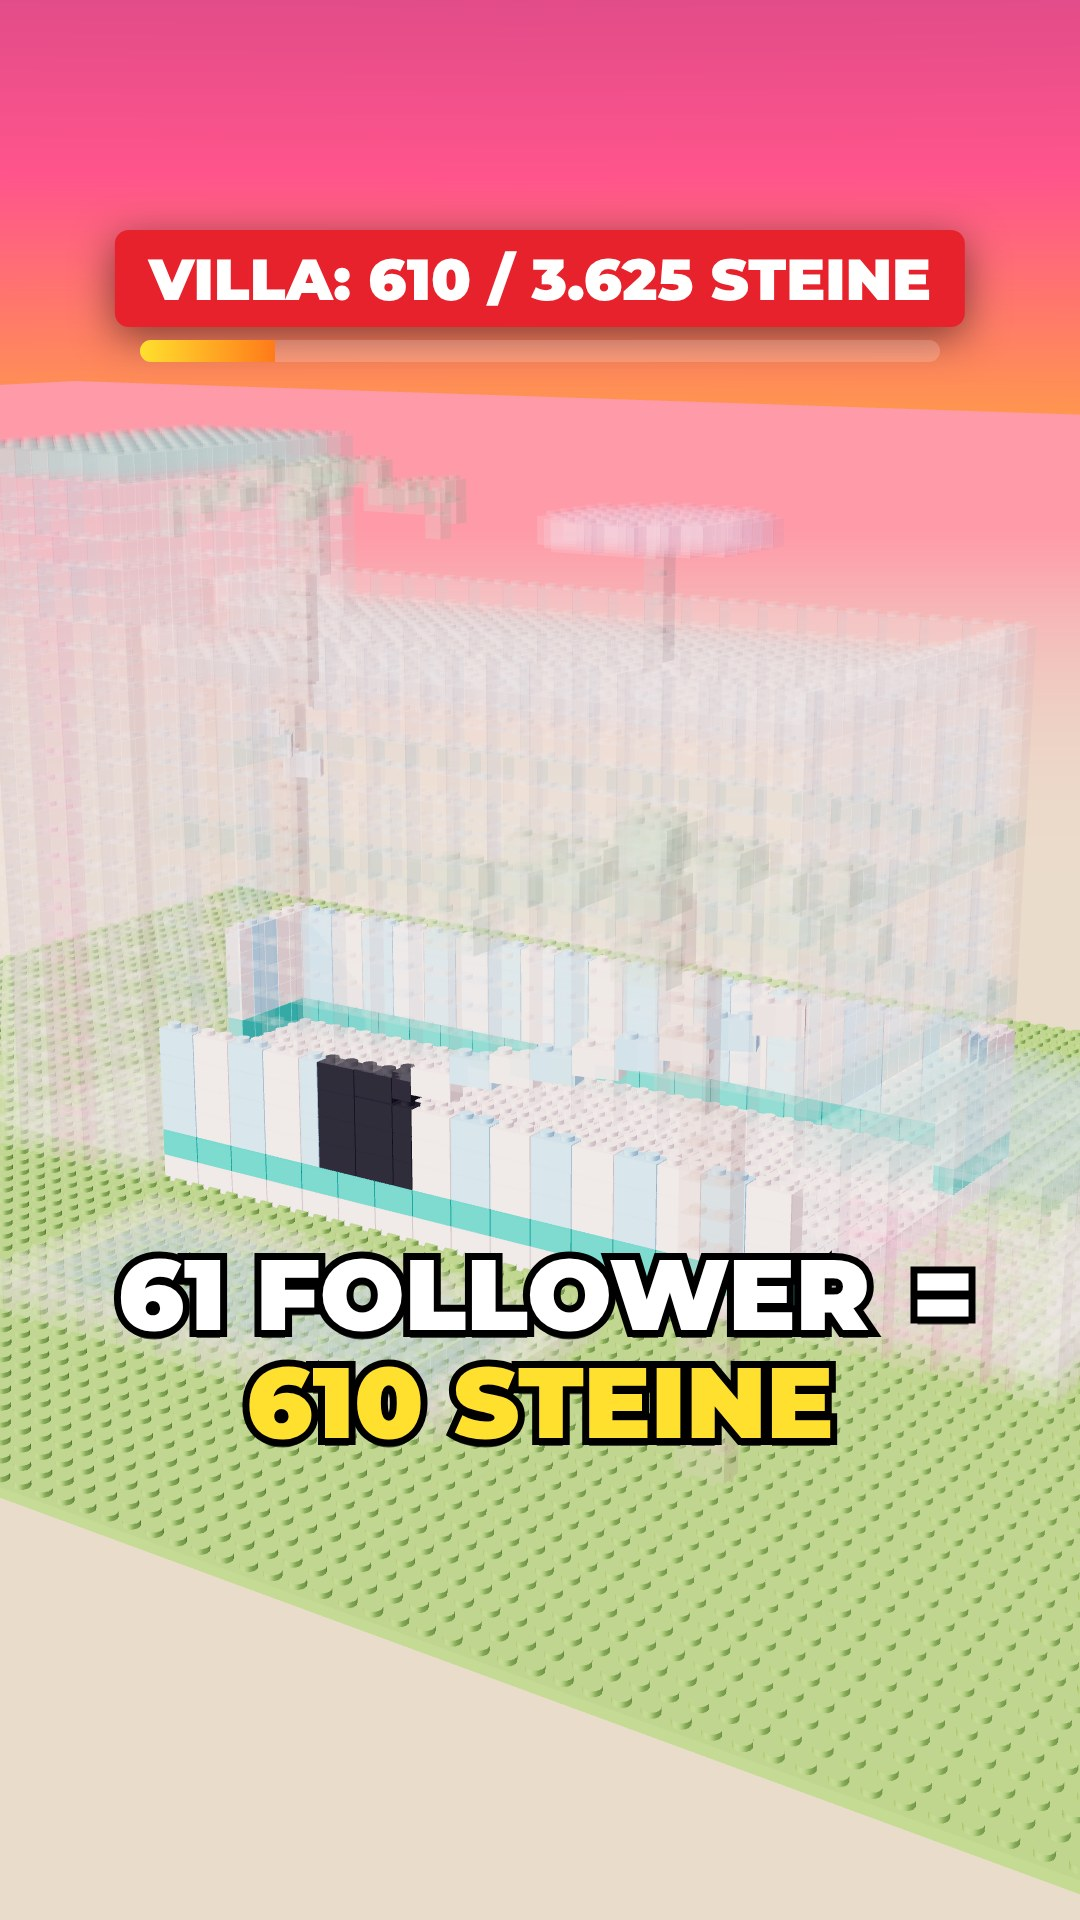
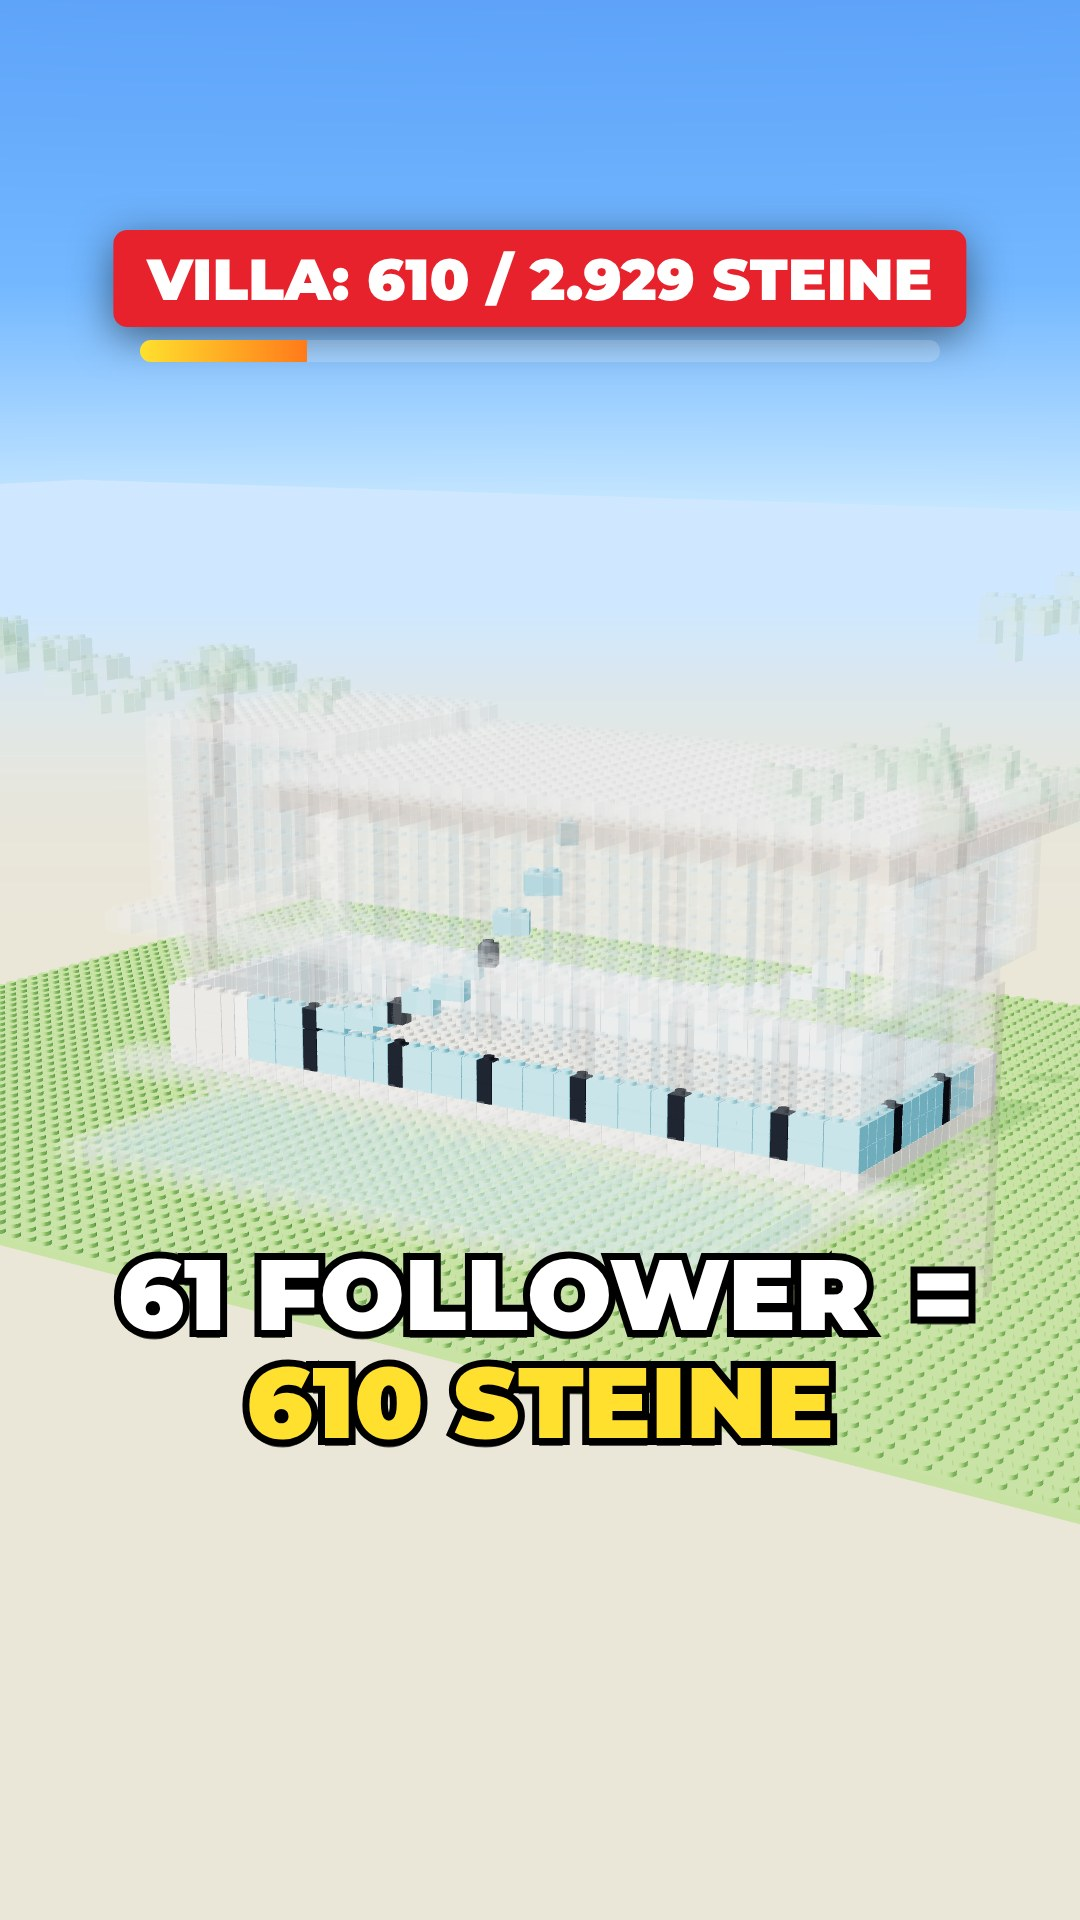
Villa neu: moderner Stil (weiße Kuben, Glasfronten, Holzunterseite, Pool), Tageshimmel
Claude-Session: https://claude.ai/code/session_016TX7ZaKJKxmG6THC5sY4HK

diff --git a/src/brick/villa.js b/src/brick/villa.js
@@ -7,66 +7,60 @@ const W = 1080, H = 1920, BH = 1.2;
 const clamp = (x, a = 0, b = 1) => Math.min(b, Math.max(a, x));
 const easeOut = x => 1 - Math.pow(1 - clamp(x), 3);
 
-const C = { white: 0xf4f1ea, cream: 0xf3e3c3, teal: 0x00bfae, pink: 0xff6fb5, glass: 0x9fe3ff, dark: 0x2b2f3a,
-  water: 0x1fb7d6, rim: 0xe8e4da, trunk: 0x8d5a2b, leaf: 0x2e9d3a, leaf2: 0x56c271, gdoor: 0xff3c9e, roof: 0xd9d4c7 };
+const C = { white: 0xf5f5f2, stone: 0xe4ddd0, glass: 0x7fc8dc, frame: 0x22262e, wood: 0x8a5a33, water: 0x5fdde6,
+  deck: 0xf0ede6, trunk: 0x8d5a2b, leaf: 0x2e9d3a, leaf2: 0x56c271, rail: 0xbfeaf5, dark: 0x3a3f4b };
 
-// ---------- Form ----------
+// ---------- Form: moderne Villa (eigenes Design) ----------
 let PART = null;
 const P = (part, c) => { PART = part; return c; };
 const segDist = (p, a, b) => { const ab = b.map((v, k) => v - a[k]), ap = p.map((v, k) => v - a[k]);
   const t = clamp((ap[0] * ab[0] + ap[1] * ab[1] + ap[2] * ab[2]) / (ab[0] ** 2 + ab[1] ** 2 + ab[2] ** 2));
   return Math.hypot(...p.map((v, k) => v - (a[k] + ab[k] * t))); };
-const PALMS = [[-30, 14, 26, 1], [24, 18, 22, -1], [-26, -20, 30, 1]];
-const FL = [1.2, 8.4, 15.6, 22.8]; // Geschossgrenzen
+const PALMS = [[-32, 12, 26, 1], [33, 14, 24, -1], [34, -8, 30, -1], [-33, -10, 22, 1]];
+const glassFace = (u, y, y0, y1) => (Math.round(u) % 6 === 0 || y < y0 + BH * .5 || y > y1 - BH * .5) ? C.frame : C.glass;
 function shape(x, y, z) {
   const p = [x, y, z];
-  // Palmen
   for (const [px, pz, h, lean] of PALMS) {
     const top = [px + lean * 3, h, pz];
     if (y < h && Math.hypot(x - (px + lean * 3 * (y / h) ** 2), z - pz) < 1) return P('palms', C.trunk);
     for (let f = 0; f < 6; f++) { const a = f / 6 * Math.PI * 2;
       if (segDist(p, top, [top[0] + Math.cos(a) * 8, h - 2.5, top[2] + Math.sin(a) * 8]) < .75) return P('palms', f % 2 ? C.leaf : C.leaf2); }
   }
-  // Pool vorne
-  if (x >= -8 && x <= 14 && z >= 11 && z <= 21 && y < 1.2) return P('pool', (x > -7 && x < 13 && z > 12 && z < 20) ? C.water : C.rim);
-  // Fundament
-  // Garage rechts
-  if (x > 20 && x <= 31 && z >= -8 && z <= 6 && y < 8.4) {
-    if (z > 5 && x > 22 && x < 30 && y < 6.6) return P('garage', C.gdoor);
-    if (y > 7.2) return P('garage', C.teal);
-    return P('garage', C.white);
+  // Pool + Terrasse
+  if (y < 1.2 && x >= -24 && x <= 26 && z >= 5 && z <= 24) {
+    if (z >= 9 && z <= 22 && x >= -14 && x <= 24) return P('pool', (z > 9.5 && z < 21.5 && x > -13.5 && x < 23.5) ? C.water : C.deck);
+    if (z < 9) return P('pool', C.deck);
   }
-  // Turm links
-  if (x >= -21 && x <= -12 && z >= -8 && z <= 7 && y < 32) {
-    if (y >= 30.8) return P('tower', C.teal);
-    const face = z > 6 || x < -20;
-    if (face && y > 23.4 && (Math.round(y / BH) % 3 !== 0) && (z > 6 ? Math.abs(x + 16.5) < 2 : Math.abs(z) < 2)) return P('tower', C.glass);
-    if (z > 6 && x > -17.5 && x < -15.5) return P('tower', C.pink); // Art-déco-Finne
+  // Erdgeschoss
+  if (x >= -22 && x <= 22 && z >= -12 && z <= 4 && y < 8.4) {
+    if (y < 1.2) return P('ground', C.stone);
+    if (z > 3 && x > -17) return P('ground', glassFace(x, y, 1.2, 8.4));
+    if (x > 21 && z > -10) return P('ground', glassFace(z, y, 1.2, 8.4));
+    return P('ground', x < -17 && z > 3 ? C.stone : C.white);
+  }
+  // Decke EG mit Überstand
+  if (x >= -24 && x <= 22 && z >= -12 && z <= 7 && y >= 8.4 && y < 9.6) return P('slab', z > 4 ? C.white : C.white);
+  // Glasgeländer Balkon
+  if (x >= -10 && x <= 22 && z > 6 && z <= 7 && y >= 9.6 && y < 10.8) return P('upper', C.rail);
+  // Linker Turm (weißer Rahmen mit Glas)
+  if (x >= -24 && x <= -11 && z >= -12 && z <= 3 && y >= 9.6 && y < 20.4) {
+    if (z > 2 && x > -22.5 && x < -12.5 && y > 10.4 && y < 19.4) return P('tower', glassFace(x + 1, y, 10.4, 19.4));
     return P('tower', C.white);
   }
-  // Haupthaus 3 Geschosse
-  if (x >= -20 && x <= 20 && z >= -14 && z <= 6 && y < 24) {
-    if (y >= 22.8) return P('roof', (x + z) % 2 ? C.roof : C.white);
-    const fl = Math.max(0, FL.findIndex((v, k) => y >= v && y < (FL[k + 1] ?? 99)));
-    const ly = y < FL[0] ? -1 : y - FL[fl];
-    if (ly < 0) return P('floor0', C.white); // Sockel
-    if (ly < BH) return P('floor' + fl, C.teal); // Gesims-Band
-    const front = z > 5, back = z < -13, side = x > 19 || x < -19;
-    if (fl === 0 && front && Math.abs(x) < 2.5 && ly < 6) return P('floor0', C.dark); // Tür
-    const wx = front || back ? x : z;
-    if ((front || back || side) && ly > 1.6 && ly < 5.8 && ((wx + 40) % 4) >= 1 && ((wx + 40) % 4) < 3) return P('floor' + fl, C.glass);
-    return P('floor' + fl, fl === 1 ? C.cream : C.white);
+  // Obergeschoss
+  if (x >= -10 && x <= 24 && z >= -12 && z <= 5 && y >= 9.6 && y < 16.8) {
+    if (z > 4 && x > -9 && x < 23) return P('upper', glassFace(x, y, 9.6, 16.8));
+    if (x > 23 && z > -10 && z < 4) return P('upper', glassFace(z, y, 9.6, 16.8));
+    return P('upper', x > 9 && x < 13 ? C.stone : C.white);
   }
-  // Dachterrassen-Brüstung + Schirm
-  if (x >= -20 && x <= 20 && z >= -14 && z <= 6 && y >= 24 && y < 25.2 && (x === -20 || x === 20 || z === -14 || z === 6)) return P('roof', C.white);
-  if (y >= 24 && y < 29 && Math.hypot(x - 8, z + 4) < .8) return P('roof', C.dark);
-  if (y >= 28.6 && y < 30 && Math.hypot(x - 8, z + 4) < 4.5) return P('roof', C.pink);
+  // Dach mit Holz-Unterseite
+  if (x >= -12 && x <= 26 && z >= -13 && z <= 8 && y >= 16.8 && y < 19.2) return P('roof', y < 18 && (z > 5 || x > 24) ? C.wood : C.white);
   return null;
 }
 
 // ---------- Voxelisieren + Steine ----------
 const vox = new Map(), key = (i, j, k) => `${i},${j},${k}`;
-for (let j = 0; j < 30; j++) for (let i = -40; i <= 36; i++) for (let k = -30; k <= 24; k++) {
+for (let j = 0; j < 30; j++) for (let i = -42; i <= 42; i++) for (let k = -22; k <= 26; k++) {
   PART = null; const c = shape(i, (j + .5) * BH, k); if (c !== null) vox.set(key(i, j, k), c + '|' + PART);
 }
 const surf = new Map();
@@ -81,7 +75,7 @@ for (const [i, j, k] of sorted) {
   for (let a = 0; a < L; a++) used.add(key(i + a, j, k));
   const [cc, part] = c.split('|'); bricks.push({ x: i + (L - 1) / 2, y: j * BH, z: k, L, c: +cc, part });
 }
-const ORDER = ['floor0', 'garage', 'floor1', 'floor2', 'tower', 'roof', 'pool', 'palms'];
+const ORDER = ['ground', 'slab', 'tower', 'upper', 'roof', 'pool', 'palms'];
 bricks.sort((a, b) => ORDER.indexOf(a.part) - ORDER.indexOf(b.part) || a.y - b.y || (a.x + a.z) - (b.x + b.z));
 window.PARTS = { N: bricks.length, order: ORDER, counts: Object.fromEntries(ORDER.map(p => [p, bricks.filter(b => b.part === p).length])) };
 
@@ -103,12 +97,12 @@ scene.environmentIntensity = .6;
 scene.add(new THREE.Mesh(new THREE.SphereGeometry(500, 32, 16), new THREE.ShaderMaterial({ side: THREE.BackSide, depthWrite: false, fog: false,
   vertexShader: `varying vec3 vp; void main(){ vp = normalize(position); gl_Position = projectionMatrix*modelViewMatrix*vec4(position,1.); }`,
   fragmentShader: `varying vec3 vp; void main(){ float h = clamp(vp.y, -.1, 1.);
-    vec3 hor = vec3(1., .62, .28), mid = vec3(1., .33, .55), top = vec3(.22, .12, .45);
+    vec3 hor = vec3(.82, .93, 1.), mid = vec3(.45, .72, 1.), top = vec3(.12, .4, .9);
     gl_FragColor = vec4(h < .12 ? mix(hor, mid, h/.12) : mix(mid, top, clamp((h-.12)/.5, 0., 1.)), 1.); }` })));
-const key1 = new THREE.DirectionalLight(0xffc090, 2.4); key1.position.set(-50, 45, 60); key1.castShadow = true;
+const key1 = new THREE.DirectionalLight(0xfff4e0, 2.8); key1.position.set(-40, 70, 60); key1.castShadow = true;
 key1.shadow.mapSize.set(2048, 2048); Object.assign(key1.shadow.camera, { left: -60, right: 60, top: 60, bottom: -60 }); scene.add(key1);
-scene.add(new THREE.HemisphereLight(0xff9ad0, 0x3a2050, 1.2));
-const front = new THREE.DirectionalLight(0xffe0f0, 1.0); front.position.set(40, 30, 70); scene.add(front);
+scene.add(new THREE.HemisphereLight(0xbfe0ff, 0x4a6a3a, 1.2));
+const front = new THREE.DirectionalLight(0xffffff, .9); front.position.set(40, 30, 70); scene.add(front);
 const m4 = new THREE.Matrix4();
 { const m = new THREE.MeshStandardMaterial({ color: 0x7fbf5a, roughness: .7 }), w = 90, d = 70;
   const b = new THREE.Mesh(new THREE.BoxGeometry(w, .4, d), m); b.position.set(0, -.2, -3); b.receiveShadow = true; scene.add(b);
@@ -117,7 +111,7 @@ const m4 = new THREE.Matrix4();
   s.receiveShadow = true; scene.add(s); }
 const land = new THREE.Mesh(new THREE.PlaneGeometry(1200, 1200), new THREE.MeshStandardMaterial({ color: 0xd8c9a0, roughness: 1 }));
 land.rotation.x = -Math.PI / 2; land.position.y = -.42; scene.add(land);
-scene.fog = new THREE.Fog(0xff9aa8, 160, 420);
+scene.fog = new THREE.Fog(0xcfe8ff, 180, 460);
 // Steine: massiv + Glas-Vorschau
 const solidMat = new THREE.MeshStandardMaterial({ roughness: .25 });
 const ghostMat = new THREE.MeshStandardMaterial({ roughness: .1, transparent: true, opacity: .24, depthWrite: false });

diff --git a/tools/villa-stills.js b/tools/villa-stills.js
@@ -21,8 +21,8 @@ const server = http.createServer((req, res) => {
   const steine = Math.min(N, F * 10 + L + K * 5), fmt = n => n.toLocaleString('de-DE');
   const cap = `<span>${F} FOLLOWER</span> = <span style="color:#ffe02e">${fmt(F * 10)} STEINE</span>`;
   const shots = [
-    ['stand', { placed: steine, falling: 25, cam: [62, 40, 86, 2, 10, -4], cap }],
-    ['fertig', { placed: N, cam: [62, 40, 86, 2, 12, -4], label: `VILLA: ${fmt(N)} / ${fmt(N)} STEINE`, cap: 'SO SIEHT SIE <span style="color:#ffe02e">FERTIG</span> AUS' }],
+    ['stand', { placed: steine, falling: 25, cam: [74, 40, 112, 2, 9, 2], cap }],
+    ['fertig', { placed: N, cam: [74, 40, 112, 2, 10, 2], label: `VILLA: ${fmt(N)} / ${fmt(N)} STEINE`, cap: 'SO SIEHT SIE <span style="color:#ffe02e">FERTIG</span> AUS' }],
   ];
   for (const [name, s] of shots) {
     await page.evaluate(s => window.shot(s), s);
